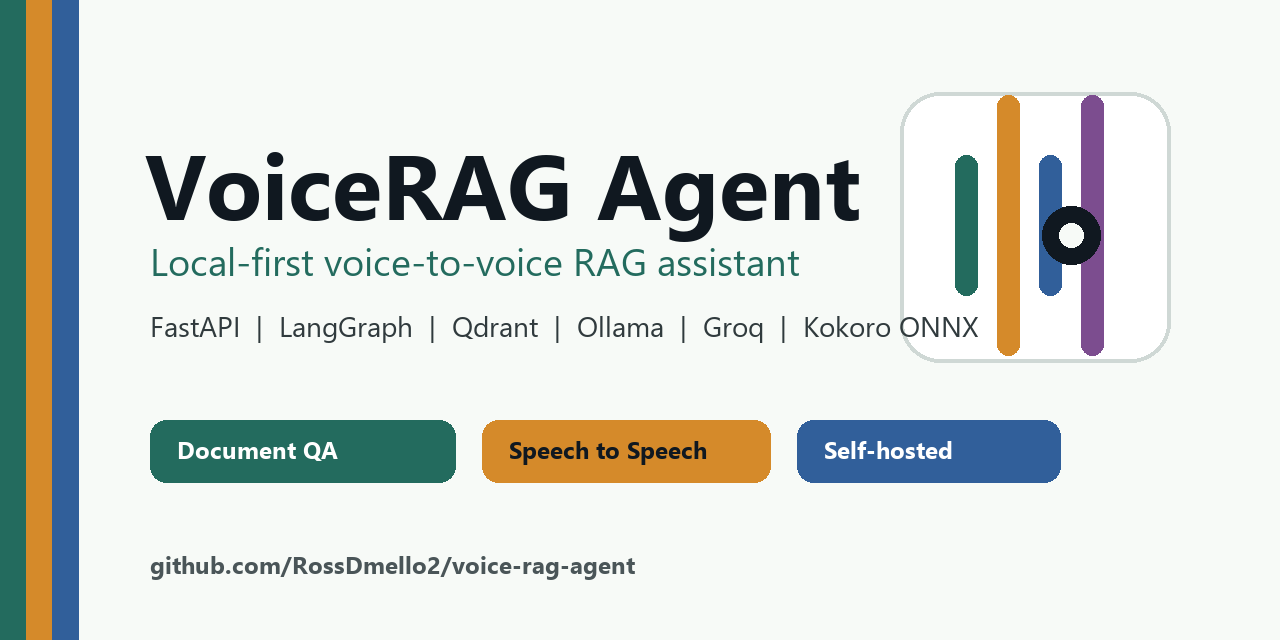
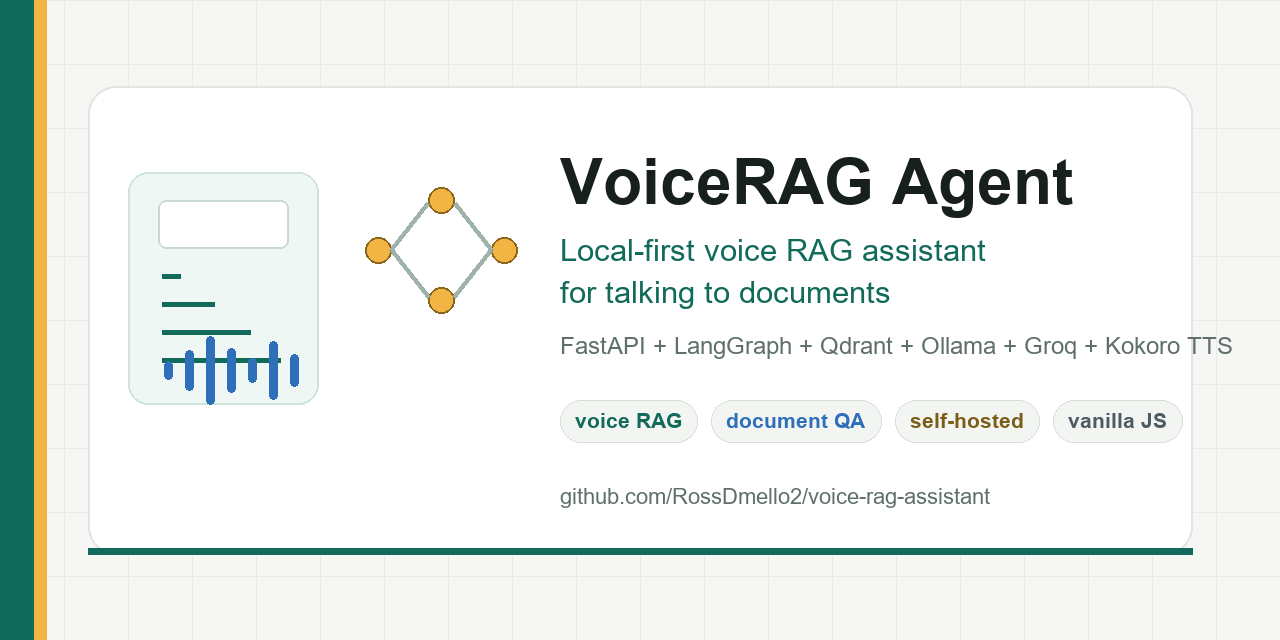
docs: update repository slug after rename

Changed region(s): [[0.0938, 0.125, 0.9688, 0.8125], [0.0, 0.0, 0.9375, 1.0], [0.6875, 0.1562, 0.7188, 0.1875]]

diff --git a/docs/NAMING_SEO_STRATEGY.md b/docs/NAMING_SEO_STRATEGY.md
@@ -1,17 +1,18 @@
 # Naming and SEO Strategy
 
 **Date:** 2026-06-01
-**Repository:** `RossDmello2/voice-rag-agent`
+**Repository:** `RossDmello2/voice-rag-assistant`
 **Current display name:** VoiceRAG Agent
-**Decision:** Keep the current repository slug unless the owner explicitly approves a rename.
+**Decision:** Rename approved by the owner on 2026-06-01. Keep the runtime display name `VoiceRAG Agent`; use `voice-rag-assistant` as the public GitHub slug.
 
 ## 1. Current Identity Audit
 
 | Surface | Current state | Assessment |
 | --- | --- | --- |
-| Repository slug | `voice-rag-agent` | Strong. It contains the high-intent keywords `voice`, `rag`, and `agent` in a short kebab-case slug. |
-| README title | `VoiceRAG Agent` | Strong. Short, memorable, and maps directly to the repo slug. |
-| GitHub description | Local-first voice-to-voice RAG assistant with FastAPI, LangGraph, Qdrant, Ollama embeddings, Groq STT/chat, Kokoro ONNX TTS, and a vanilla JS UI. | Accurate and keyword-rich, but slightly dense. |
+| Repository slug | `voice-rag-assistant` | Strong. It contains the high-intent keywords `voice`, `rag`, and `assistant`, which are clearer for beginners searching for a usable project. |
+| Previous slug | `voice-rag-agent` | Still an accurate phrase, but the owner approved the clearer `assistant` slug after this analysis. |
+| README title | `VoiceRAG Agent` | Strong. Short, memorable, and still matches the source-backed runtime display name. |
+| GitHub description | Local-first voice RAG assistant for talking to documents with FastAPI, LangGraph, Qdrant, Ollama embeddings, Groq STT/chat, Kokoro TTS, and vanilla JS. | Accurate, keyword-rich, and aligned with the live GitHub metadata. |
 | Topics | 20 accurate topics covering language, framework, AI/RAG, voice, storage, and self-hosting. | Strong; GitHub allows up to 20 topics and the repo is already at that limit. |
 | README first paragraph | Explains self-hosted document chat, FastAPI UI, Qdrant retrieval, Ollama embeddings, SSE, and Kokoro speech. | Accurate; can be made more direct for non-technical visitors. |
 | Visuals | Real screenshots and a deterministic social-preview image. | Strong proof. Add one clearly labeled conceptual workflow visual for faster comprehension. |
@@ -19,7 +20,7 @@
 
 What is working:
 
-- The name already matches how people search this niche: `voice rag assistant`, `rag voice assistant`, and `voice rag agent`.
+- The name and slug match how people search this niche: `voice rag assistant`, `rag voice assistant`, and `voice rag agent`.
 - The README has real screenshots near the top, not fake mockups.
 - The repo has source-backed setup, test, API, deployment, security, and contribution sections.
 - CI, CodeQL, Dependabot, and community files provide professional trust signals.
@@ -125,21 +126,21 @@ Rejected naming directions:
 
 ## 6. Top 3 Recommendations
 
-### 1. Keep: VoiceRAG Agent
+### 1. Current: VoiceRAG Agent
 
 - Display name: `VoiceRAG Agent`
-- Repo slug: `voice-rag-agent`
+- Repo slug: `voice-rag-assistant`
 - Tagline: `Talk to your documents with a local-first voice RAG assistant.`
 - GitHub description: `Local-first voice RAG assistant for talking to documents with FastAPI, LangGraph, Qdrant, Ollama embeddings, Groq STT/chat, Kokoro TTS, and vanilla JS.`
-- Risk/tradeoff: `VoiceRAG` is not unique across GitHub, but the current slug is clear and searchable.
+- Risk/tradeoff: The slug uses `assistant` while the runtime title remains `VoiceRAG Agent`. That is acceptable for discoverability, but a future product rename would require explicit approval to edit core frontend metadata/source.
 
-### 2. Alternative: VoiceRAG Assistant
+### 2. Alternative Runtime Brand: VoiceRAG Assistant
 
 - Display name: `VoiceRAG Assistant`
 - Repo slug: `voice-rag-assistant`
 - Tagline: `Ask your documents questions by voice, then hear grounded answers back.`
 - GitHub description: `Self-hosted voice RAG assistant for document Q&A with FastAPI, Qdrant, Ollama embeddings, Groq STT/chat, Kokoro TTS, and vanilla JS.`
-- Risk/tradeoff: Strong beginner clarity, but the slug collides with many similarly named repos and would require explicit owner approval.
+- Risk/tradeoff: Strong beginner clarity, but changing the runtime display name would touch core frontend code that is outside this documentation-only pass.
 
 ### 3. Alternative: Local VoiceRAG
 
@@ -190,8 +191,6 @@ Follow immediately with:
 
 ## 9. Final Recommendation
 
-Keep the actual GitHub repository slug as `voice-rag-agent`.
+Use `voice-rag-assistant` as the actual GitHub repository slug. The owner explicitly approved the rename on 2026-06-01, and the new slug improves beginner-facing search intent without changing runtime behavior.
 
-Do not rename the repository without explicit owner approval. A rename would affect clone URLs, badges, README links, existing search signals, and downstream references. The current slug is already one of the strongest honest keyword combinations for this project.
-
-If the owner later approves a rename, the only serious alternative is `voice-rag-assistant`, but the improvement is not large enough to justify URL churn right now.
+Keep `VoiceRAG Agent` as the README title and runtime display name for now because that name is source-backed by the existing app metadata. If the owner later wants the product name itself changed to `VoiceRAG Assistant`, treat that as a separate core-code branding task.

diff --git a/docs/operations/VERIFICATION_MATRIX.md b/docs/operations/VERIFICATION_MATRIX.md
@@ -6,14 +6,14 @@
 | Gate | Command/Evidence | Result | Notes |
 | --- | --- | --- | --- |
 | Branch created | `git branch --show-current` | PASS | Working branch for this docs/metadata pass: `codex/github-identity-seo`. |
-| GitHub repository created | `gh repo view RossDmello2/voice-rag-agent --json nameWithOwner,visibility,description,url` | PASS | Repository is public and `origin` points to `https://github.com/RossDmello2/voice-rag-agent.git`. |
-| GitHub topics configured | `gh repo view RossDmello2/voice-rag-agent --json repositoryTopics` | PASS | All 20 planned topics are configured. |
-| Branch protection | `gh api repos/RossDmello2/voice-rag-agent/branches/main/protection` | PASS | `main` requires `lint`, `test (3.11)`, `Analyze (python)`, and `Analyze (javascript-typescript)`; force pushes and deletions are disabled. |
+| GitHub repository renamed | `gh repo view RossDmello2/voice-rag-assistant --json nameWithOwner,visibility,description,url` | PASS | Repository is public and `origin` points to `https://github.com/RossDmello2/voice-rag-assistant.git`. |
+| GitHub topics configured | `gh repo view RossDmello2/voice-rag-assistant --json repositoryTopics` | PASS | All 20 planned topics are configured. |
+| Branch protection | `gh api repos/RossDmello2/voice-rag-assistant/branches/main/protection` | PASS | `main` requires `lint`, `test (3.11)`, `Analyze (python)`, and `Analyze (javascript-typescript)`; force pushes and deletions are disabled. |
 | GitHub security automation | `gh api .../vulnerability-alerts`; `gh api .../automated-security-fixes` | PASS | Dependabot vulnerability alerts and automated security fixes are enabled or already enabled. |
-| Remote CI | `gh run list --repo RossDmello2/voice-rag-agent --branch main` | PASS | Latest `CI` run for the current `main` commit completed successfully. |
-| Remote CodeQL | `gh run list --repo RossDmello2/voice-rag-agent --branch main` | PASS | Latest `CodeQL` run for the current `main` commit completed successfully. |
-| Code scanning alerts | `gh api 'repos/RossDmello2/voice-rag-agent/code-scanning/alerts?state=open&per_page=100' --jq 'length'` | PASS | GitHub reports `0` open code-scanning alerts after the 2026-06-01 CodeQL fix and rescan. |
-| Private vulnerability reporting | `gh api repos/RossDmello2/voice-rag-agent/private-vulnerability-reporting` | PASS | Enabled for private security reports through GitHub Security Advisories. |
+| Remote CI | `gh run list --repo RossDmello2/voice-rag-assistant --branch main` | PASS | Latest `CI` run for the current `main` commit completed successfully. |
+| Remote CodeQL | `gh run list --repo RossDmello2/voice-rag-assistant --branch main` | PASS | Latest `CodeQL` run for the current `main` commit completed successfully. |
+| Code scanning alerts | `gh api 'repos/RossDmello2/voice-rag-assistant/code-scanning/alerts?state=open&per_page=100' --jq 'length'` | PASS | GitHub reports `0` open code-scanning alerts after the 2026-06-01 CodeQL fix and rescan. |
+| Private vulnerability reporting | `gh api repos/RossDmello2/voice-rag-assistant/private-vulnerability-reporting` | PASS | Enabled for private security reports through GitHub Security Advisories. |
 | Issue forms | PyYAML parse of `.github/ISSUE_TEMPLATE/*.yml` | PASS | `bug_report.yml`, `feature_request.yml`, and `config.yml` parse successfully. |
 | Local artifact ignore | `git check-ignore voice_agent_backend/.env voice_agent_backend/data/models/kokoro-v1.0.onnx voice_agent_backend/data/sqlite/voice_agent.db` | PASS | `.env`, Kokoro ONNX, and SQLite DB are ignored. |
 | No tracked secrets/artifacts | `git ls-files \| rg "(^|/)\\.env$|\\.onnx$|\\.bin$|voice_agent_backend/data/sqlite/.*\\.(db|sqlite|sqlite3)$"` | PASS | No tracked `.env`, model binary, or runtime DB artifacts. |

diff --git a/README.md b/README.md
@@ -1,7 +1,7 @@
 # VoiceRAG Agent
 
-[![CI](https://github.com/RossDmello2/voice-rag-agent/actions/workflows/ci.yml/badge.svg)](https://github.com/RossDmello2/voice-rag-agent/actions/workflows/ci.yml)
-[![CodeQL](https://github.com/RossDmello2/voice-rag-agent/actions/workflows/codeql.yml/badge.svg)](https://github.com/RossDmello2/voice-rag-agent/actions/workflows/codeql.yml)
+[![CI](https://github.com/RossDmello2/voice-rag-assistant/actions/workflows/ci.yml/badge.svg)](https://github.com/RossDmello2/voice-rag-assistant/actions/workflows/ci.yml)
+[![CodeQL](https://github.com/RossDmello2/voice-rag-assistant/actions/workflows/codeql.yml/badge.svg)](https://github.com/RossDmello2/voice-rag-assistant/actions/workflows/codeql.yml)
 [![License: MIT](https://img.shields.io/badge/License-MIT-blue.svg)](LICENSE)
 [![Python 3.10+](https://img.shields.io/badge/python-3.10%2B-blue.svg)](https://www.python.org/)
 [![FastAPI](https://img.shields.io/badge/FastAPI-0.104%2B-009688.svg)](https://fastapi.tiangolo.com/)
@@ -96,8 +96,8 @@ Feature ownership and extension guidance live in [docs/features/README.md](docs/
 ### Installation
 
 ```bash
-git clone https://github.com/RossDmello2/voice-rag-agent.git
-cd voice-rag-agent
+git clone https://github.com/RossDmello2/voice-rag-assistant.git
+cd voice-rag-assistant
 python -m venv venv
 source venv/bin/activate   # Windows: venv\Scripts\activate
 pip install -r voice_agent_backend/requirements.txt
@@ -152,7 +152,7 @@ See [.env.example](.env.example) for the full configuration surface.
 ## Project Structure
 
 ```text
-voice-rag-agent/
+voice-rag-assistant/
 |-- .github/                       GitHub workflows and issue/PR templates
 |-- docs/
 |   |-- README.md                   Contributor documentation index

diff --git a/docs/operations/CONTRIBUTION_READINESS_AUDIT.md b/docs/operations/CONTRIBUTION_READINESS_AUDIT.md
@@ -10,7 +10,7 @@ Scope: open-source contribution structure, GitHub publishing, and discoverabilit
 - `github-open-source-contribution` provided the repository-publication and public-readiness workflow.
 - `ultrathink` guided decomposition, gap checks, verification planning, and final review.
 - `fact-check-skill` was applied as a source-backed-claim discipline for README and documentation claims.
-- GitHub CLI and the GitHub plugin verified `RossDmello2/voice-rag-agent`, remote SHAs, Actions, CodeQL, branch protection, and metadata.
+- GitHub CLI and the GitHub plugin verified `RossDmello2/voice-rag-assistant`, remote SHAs, Actions, CodeQL, branch protection, and metadata.
 - Browser plugin tools were not exposed in this session, so Playwright drove the served local UI for browser smoke and screenshot capture.
 - `imagegen` guidance was used for visual rules; this later identity pass added one generated conceptual workflow visual under `docs/assets/brand/` and labels it as non-screenshot context.
 
@@ -24,7 +24,7 @@ Scope: open-source contribution structure, GitHub publishing, and discoverabilit
 | Feature discoverability | IMPROVED | Added `docs/features/README.md` as the contributor-facing feature catalog and extension workflow. |
 | Architecture discoverability | IMPROVED | Added `docs/architecture/README.md` as the current architecture entry point and marked legacy architecture notes as historical. |
 | Runtime behavior | UNCHANGED | This pass intentionally avoided changes under `voice_agent_backend/app/` and `voice_agent_backend/frontend/`. |
-| GitHub remote | PASS | `origin` points to `https://github.com/RossDmello2/voice-rag-agent.git`. |
+| GitHub remote | PASS | `origin` points to `https://github.com/RossDmello2/voice-rag-assistant.git`. |
 | Discoverability metadata | PASS | Repository description and all 20 planned topics are configured through `gh repo edit`. |
 | Branch protection | PASS | `main` requires CI and CodeQL checks; force pushes and deletions are disabled. |
 | Remote checks | PASS | Main-branch CI and CodeQL completed successfully after the workflow dependency fix. |
@@ -43,7 +43,7 @@ Scope: open-source contribution structure, GitHub publishing, and discoverabilit
 
 - Added `docs/architecture/README.md` as the canonical current architecture map.
 - Added `docs/features/README.md` so future contributors can start from a feature catalog without forcing a runtime package migration.
-- Added `docs/README.md`, `docs/operations/DISCOVERABILITY_PLAN.md`, `docs/guides/GITHUB_PUBLISHING_CHECKLIST.md`, and `docs/assets/README.md` for the `RossDmello2/voice-rag-agent` publishing path.
+- Added `docs/README.md`, `docs/operations/DISCOVERABILITY_PLAN.md`, `docs/guides/GITHUB_PUBLISHING_CHECKLIST.md`, and `docs/assets/README.md` for the `RossDmello2/voice-rag-assistant` publishing path.
 - Updated README, frontend metadata, issue links, docs references, and tests for the VoiceRAG Agent public identity.
 - Added README screenshots and a GitHub social preview source image under `docs/assets/`.
 - Added real sanitized `main-workflow` and `mobile` screenshots.
@@ -72,7 +72,7 @@ Scope: open-source contribution structure, GitHub publishing, and discoverabilit
 | Test collection | PASS: 7 backend tests and 26 frontend tests collected. |
 | Import smoke | PASS: `ALL 20 IMPORTS PASSED`. |
 | App import | PASS: `Voice Agent API`. |
-| GitHub repository | PASS: `RossDmello2/voice-rag-agent` exists, is public, and has the expected description/topics. |
+| GitHub repository | PASS: `RossDmello2/voice-rag-assistant` exists, is public, and has the expected description/topics. |
 | Live browser smoke | PASS: temporary Uvicorn on `127.0.0.1:8023` rendered the UI, opened the documents panel, captured a sanitized chat workflow and mobile viewport, reported title `VoiceRAG Agent | Local Voice-to-Voice RAG Assistant`, and had no page errors. Browser console reported expected `navigator.vibrate` user-gesture warnings only. |
 | Diff whitespace | PASS: `git diff --check` reported only Windows CRLF conversion warnings. |
 

diff --git a/docs/guides/HANDOFF_README.md b/docs/guides/HANDOFF_README.md
@@ -16,7 +16,7 @@ It is self-hosted, but not fully offline by default because Groq-backed features
 ## Runtime Roots
 
 ```text
-voice-rag-agent/
+voice-rag-assistant/
 |-- README.md
 |-- .env.example
 |-- docs/
@@ -33,8 +33,8 @@ The app reads runtime configuration from `voice_agent_backend/.env`. Do not comm
 ## Local Setup
 
 ```bash
-git clone https://github.com/RossDmello2/voice-rag-agent.git
-cd voice-rag-agent
+git clone https://github.com/RossDmello2/voice-rag-assistant.git
+cd voice-rag-assistant
 python -m venv venv
 source venv/bin/activate   # Windows: venv\Scripts\activate
 pip install -r voice_agent_backend/requirements.txt

diff --git a/docs/deployment.md b/docs/deployment.md
@@ -27,13 +27,13 @@ Build from the backend directory:
 
 ```bash
 cd voice_agent_backend
-docker build -t voice-rag-agent .
+docker build -t voice-rag-assistant .
 ```
 
 Run with a mounted `.env` file and local data directory:
 
 ```bash
-docker run --rm -p 8000:8000 --env-file .env -v "%cd%/data:/app/data" voice-rag-agent
+docker run --rm -p 8000:8000 --env-file .env -v "%cd%/data:/app/data" voice-rag-assistant
 ```
 
 The image starts Uvicorn with `${PORT:-8000}`, so hosted platforms that inject `PORT` can bind the expected port without editing the Dockerfile. The container expects Qdrant, Ollama, and any Kokoro sidecar to be reachable from inside Docker. Use host-network equivalents or service names when composing multiple containers.

diff --git a/docs/guides/GITHUB_PUBLISHING_CHECKLIST.md b/docs/guides/GITHUB_PUBLISHING_CHECKLIST.md
@@ -1,10 +1,10 @@
 # GitHub Publishing Checklist
 
-Use this checklist when publishing VoiceRAG Agent to `RossDmello2/voice-rag-agent`.
+Use this checklist when publishing VoiceRAG Agent to `RossDmello2/voice-rag-assistant`.
 
 ## Repository Setup
 
-- Create a public GitHub repository named `voice-rag-agent`.
+- Create a public GitHub repository named `voice-rag-assistant`.
 - Add `origin` to the local repository.
 - Push `main` and the active contribution branch.
 - Set the repository description from `docs/operations/DISCOVERABILITY_PLAN.md`.

diff --git a/docs/operations/DISCOVERABILITY_PLAN.md b/docs/operations/DISCOVERABILITY_PLAN.md
@@ -2,7 +2,7 @@
 
 Date: 2026-06-01
 Project identity: VoiceRAG Agent
-Repository slug: `RossDmello2/voice-rag-agent`
+Repository slug: `RossDmello2/voice-rag-assistant`
 
 ## Positioning
 
@@ -16,7 +16,7 @@ This is intentionally precise. The project is not a generic agent framework, a h
 
 GitHub repository discovery depends heavily on the repository name, description, topics, and README. Google can use page titles, headings, snippets, meta descriptions, and nearby image context. The project therefore optimizes the surfaces it controls:
 
-- Repository name: `voice-rag-agent`
+- Repository name: `voice-rag-assistant`
 - Display name: `VoiceRAG Agent`
 - README H1, tagline, feature language, and quickstart
 - GitHub description and topics

diff --git a/docs/intelligence/2026-06-01-github-identity-seo/README.md b/docs/intelligence/2026-06-01-github-identity-seo/README.md
@@ -1,7 +1,7 @@
 # GitHub Identity SEO Intelligence Snapshot
 
 **Date:** 2026-06-01
-**Project root:** repository root for `RossDmello2/voice-rag-agent`
+**Project root:** repository root for `RossDmello2/voice-rag-assistant`
 **Output directory:** `docs/intelligence/2026-06-01-github-identity-seo/`
 **Scope:** Targeted source-grounded intelligence pass for GitHub identity, naming, README claims, visual presentation, and discoverability.
 **Mutation boundary:** Documentation and public assets only. Core runtime files were read for evidence and not edited.

diff --git a/docs/operations/PRODUCTIONIZATION_SUMMARY.md b/docs/operations/PRODUCTIONIZATION_SUMMARY.md
@@ -8,7 +8,7 @@ Product shape decision: `docs/operations/PRODUCT_SHAPE_DECISION.md`
 ## What Changed
 
 - Initialized git and created a baseline commit so this productionization pass is reviewable as a diff.
-- Established the public VoiceRAG Agent identity and GitHub repository target `RossDmello2/voice-rag-agent`.
+- Established the public VoiceRAG Agent identity and GitHub repository target now published as `RossDmello2/voice-rag-assistant`.
 - Mounted the existing auth router and added frontend sign-in/register/logout flow.
 - Protected document ingestion and collection/document mutation routes with JWT bearer auth.
 - Kept local-first read/chat/health/model endpoints public.